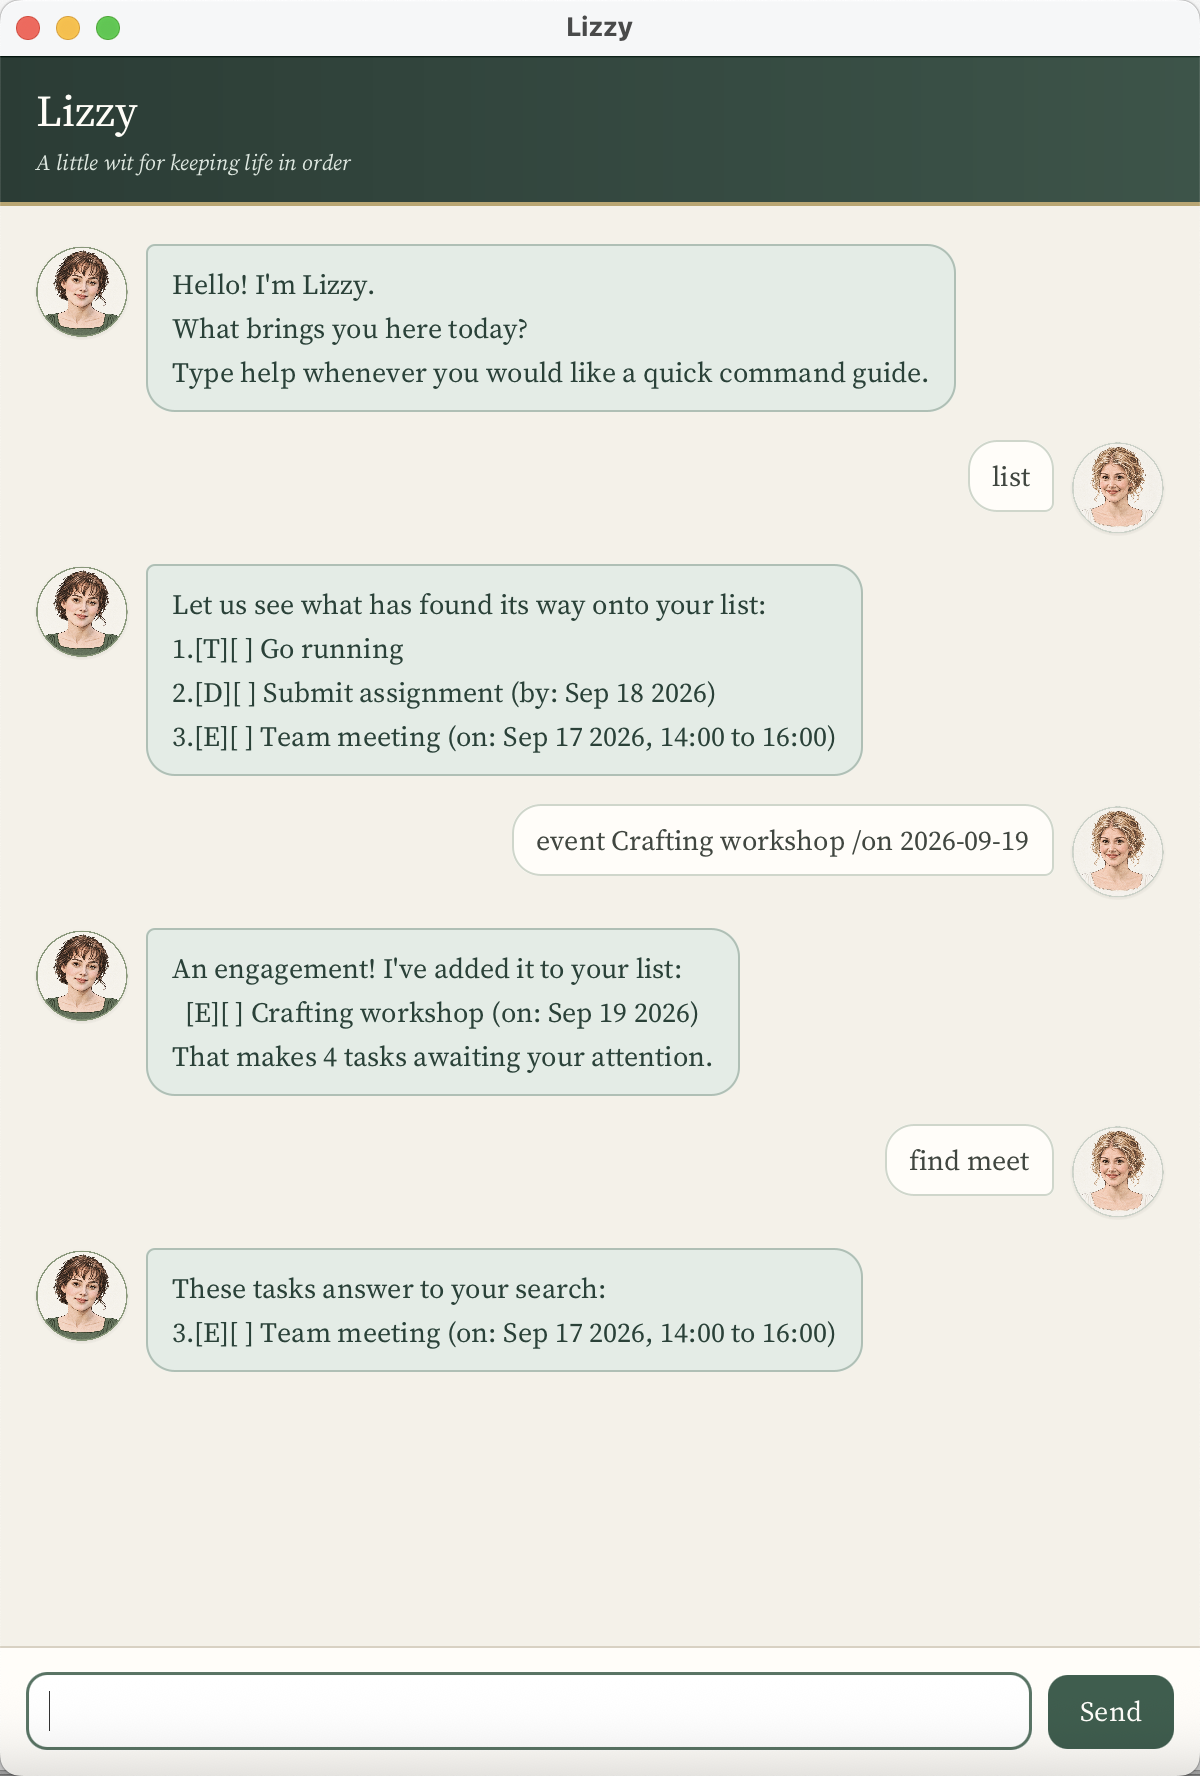
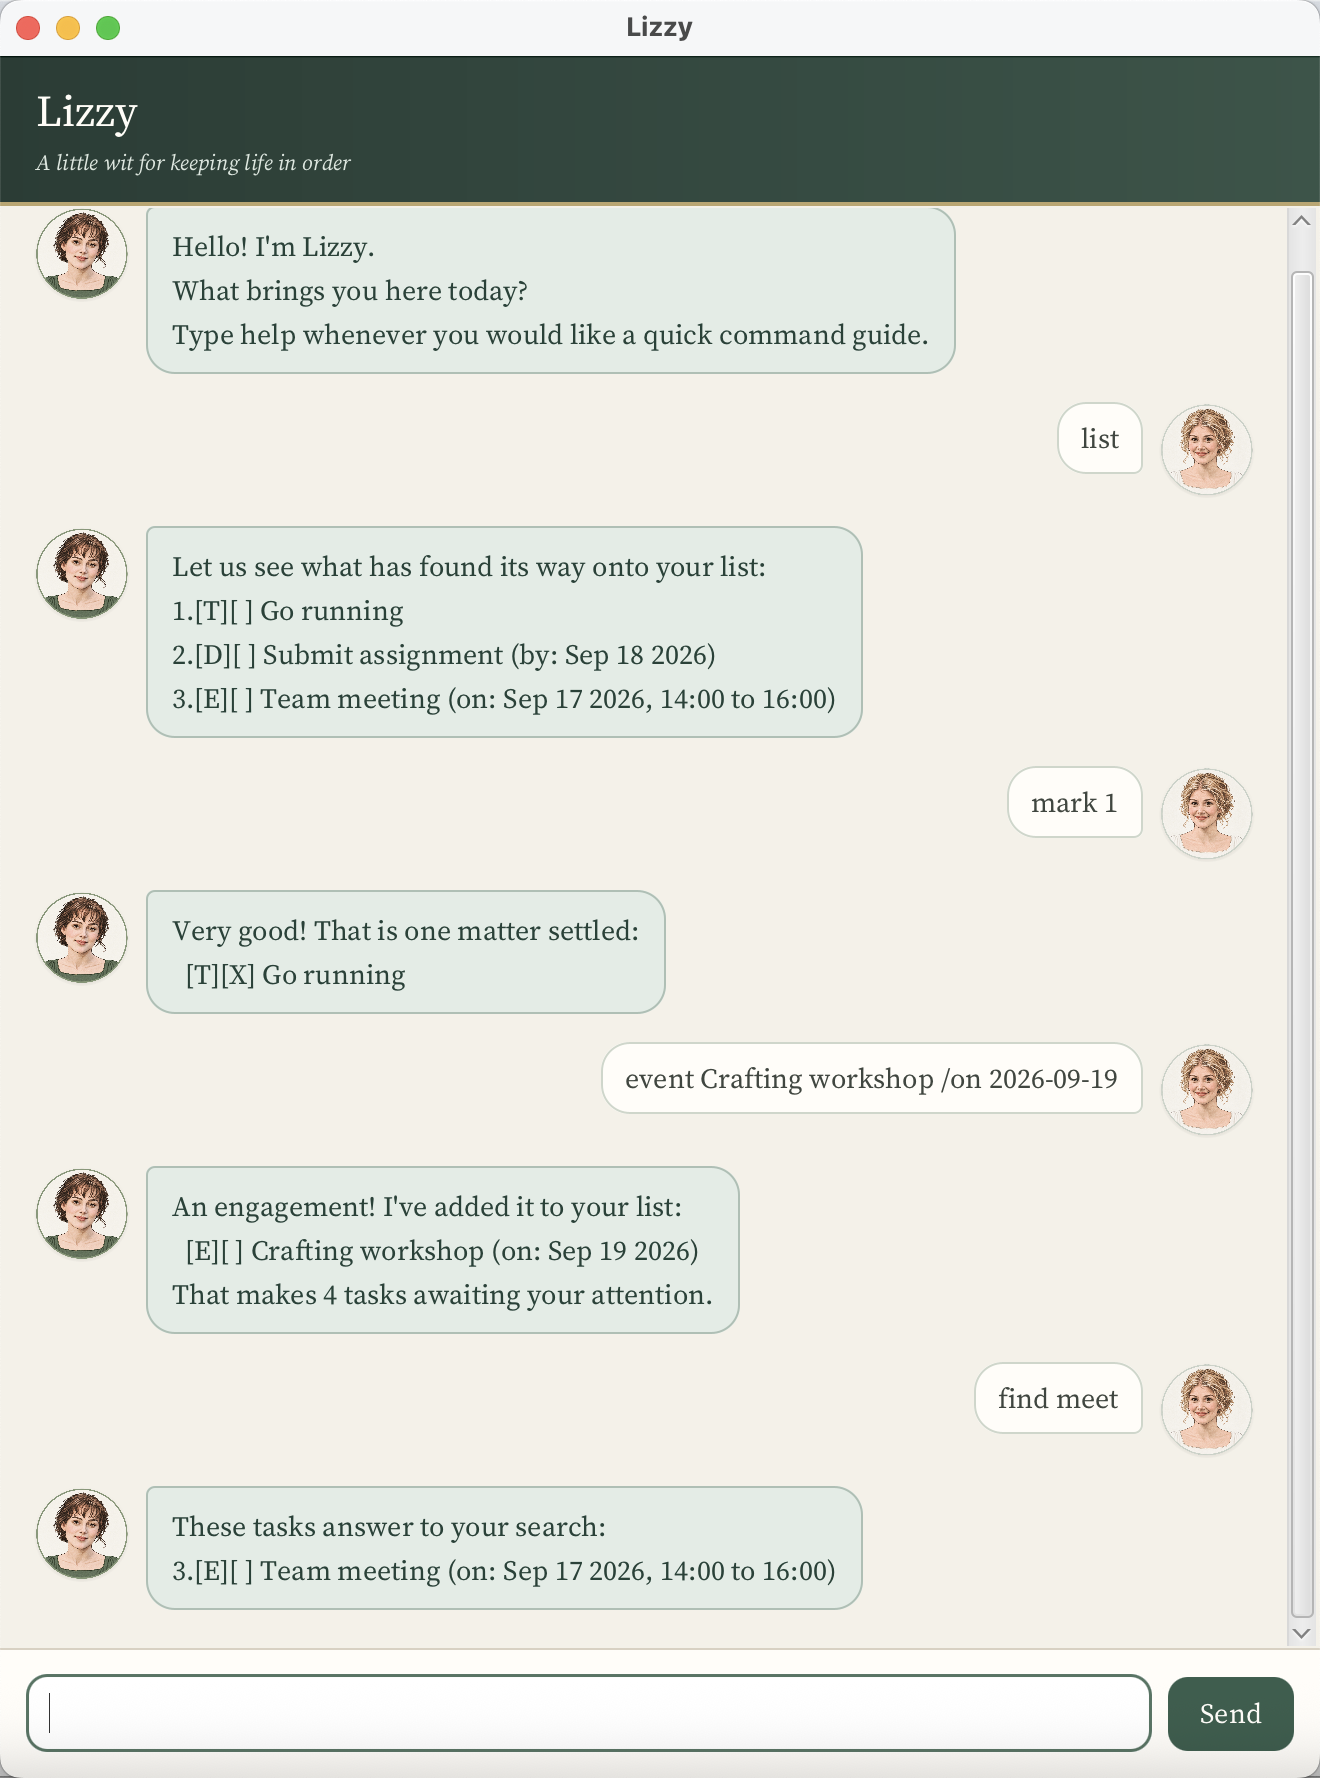
Update product screenshot in User Guide
Replace the previous screenshot with a higher-resolution view that
shows four representative commands without clipped content.
Reduce its rendered width so the guide remains easy to scan.

diff --git a/docs/README.md b/docs/README.md
@@ -6,7 +6,11 @@ Lizzy is a desktop task manager with a warm, lightly witty personality. She
 keeps todos, deadlines, events, and flexible completion periods in one
 searchable list, and remembers them between sessions.
 
-![The Lizzy desktop application showing a realistic task list](Ui.png)
+<p align="center">
+  <img src="Ui.png"
+       alt="The Lizzy desktop application showing a realistic task list"
+       width="420">
+</p>
 
 ## Quick start
 
